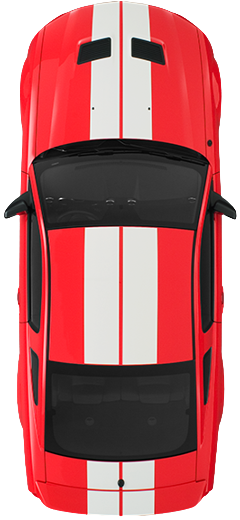
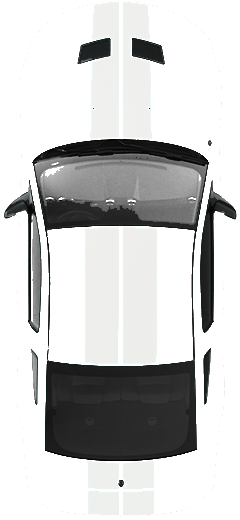
FINALLY YES

diff --git a/Car.js b/Car.js
@@ -1,11 +1,12 @@
 class Car {
-    constructor (x, y, width, height, controlType, topSpeed = 3) {
+    constructor (x, y, width, height, controlType, topSpeed = 3, color = "#add8e6") {
 
         this.x = x
         this.y = y
         this.width = width
         this.height = height
-
+        this.color = color
+        
         this.speed = 0
         this.acceleration = 0.2
         this.topSpeed = topSpeed
@@ -18,6 +19,25 @@ class Car {
         if (controlType !== "DUMMY") {
             this.sensor = new Sensor(this)
             this.brain = new NeuralNetwork([this.sensor.rayCount, 6, 4])
+        }
+
+        this.img = new Image()
+        this.img.src = "./img/mustang top down.png"
+
+        this.mask = document.createElement("canvas")
+        this.mask.width = width
+        this.mask.height = height
+
+        this.maskCtx = this.mask.getContext("2d")
+
+        this.img.onload = () => {
+            this.maskCtx.fillStyle = color
+            this.maskCtx.rect(0, 0, width, height)
+            this.maskCtx.fill()
+
+            this.maskCtx.globalCompositeOperation = "destination-atop"
+            this.maskCtx.drawImage(this.img, 0, 0, this.width, this.height)
+
         }
 
         this.controls = new Controls(controlType)
@@ -142,16 +162,15 @@ class Car {
             ctx.fillStyle = color
         }
 
-        const img = new Image()
-        img.src = "./img/mustang top down.png"
-
         //console.log(this.height)
 
         ctx.save()
         ctx.translate(this.x, this.y)
         ctx.rotate(-this.angle)
 
-        ctx.drawImage(img,-this.width/2, -this.height/2, this.width, this.height);
+        ctx.drawImage(this.mask,-this.width/2, -this.height/2, this.width, this.height);
+        ctx.globalCompositeOperation = "multiply"
+        ctx.drawImage(this.img,-this.width/2, -this.height/2, this.width, this.height);
         
         /*
         ctx.beginPath()

diff --git a/index.js b/index.js
@@ -21,13 +21,13 @@ const car = {
 const road = new Road(carCanvas.width/2, carCanvas.width*0.9)
 let cars = generateCars(100)
 let traffic = [
-    new Car(road.getLaneCenter(1), -100, car.x, car.y, "DUMMY"),
-    new Car(road.getLaneCenter(2), -300, car.x, car.y, "DUMMY"),
-    new Car(road.getLaneCenter(0), -300, car.x, car.y, "DUMMY"),
-    new Car(road.getLaneCenter(0), -500, car.x, car.y, "DUMMY"),
-    new Car(road.getLaneCenter(1), -600, car.x, car.y, "DUMMY"),
-    new Car(road.getLaneCenter(2), -700, car.x, car.y, "DUMMY"),
-    new Car(road.getLaneCenter(0), -750, car.x, car.y, "DUMMY"),
+    new Car(road.getLaneCenter(1), -100, car.x, car.y, "DUMMY", 3, "orange"),
+    new Car(road.getLaneCenter(2), -300, car.x, car.y, "DUMMY", 3, "purple"),
+    new Car(road.getLaneCenter(0), -300, car.x, car.y, "DUMMY", 3, "cyan"),
+    new Car(road.getLaneCenter(1), -100, car.x, car.y, "DUMMY", 3, "orange"),
+    new Car(road.getLaneCenter(1), -600, car.x, car.y, "DUMMY", 3, "orange"),
+    new Car(road.getLaneCenter(2), -700, car.x, car.y, "DUMMY", 3, "orange"),
+    new Car(road.getLaneCenter(0), -750, car.x, car.y, "DUMMY", 3, "orange"),
 ]
 
 let bestCar = cars[0]
